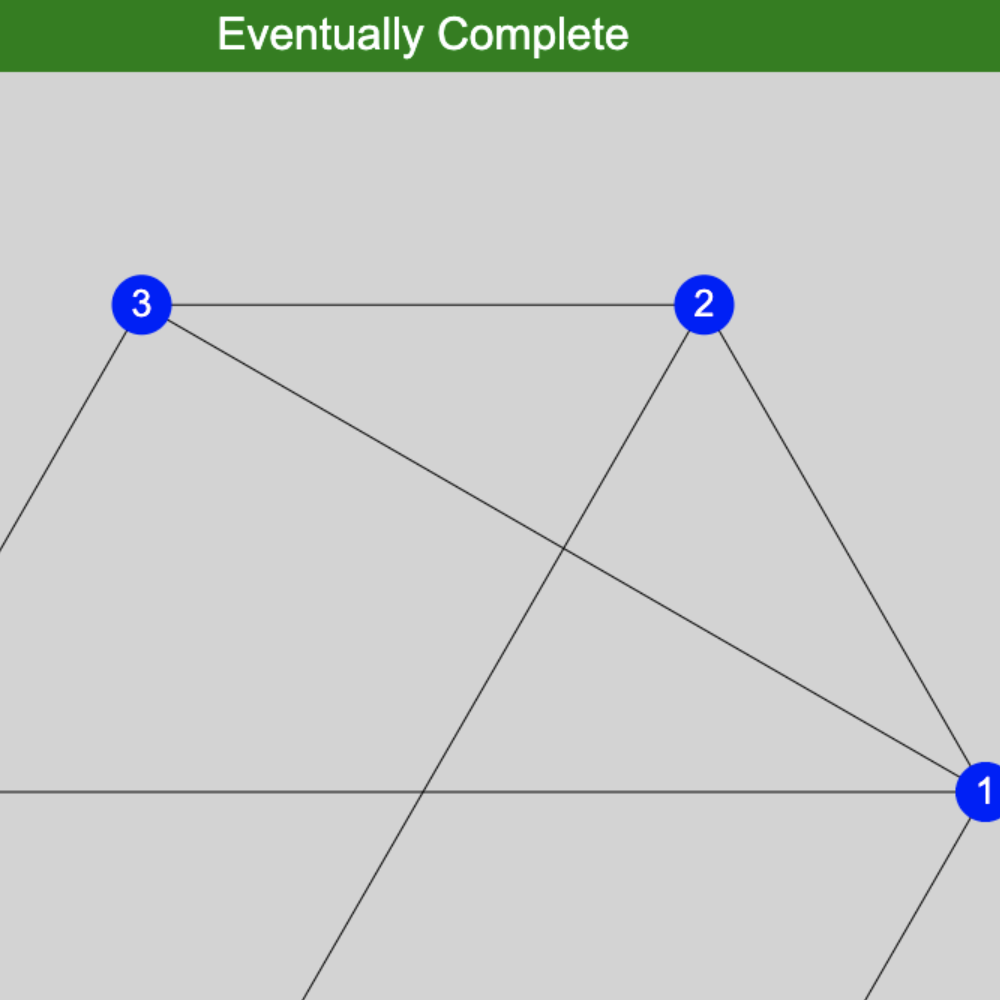
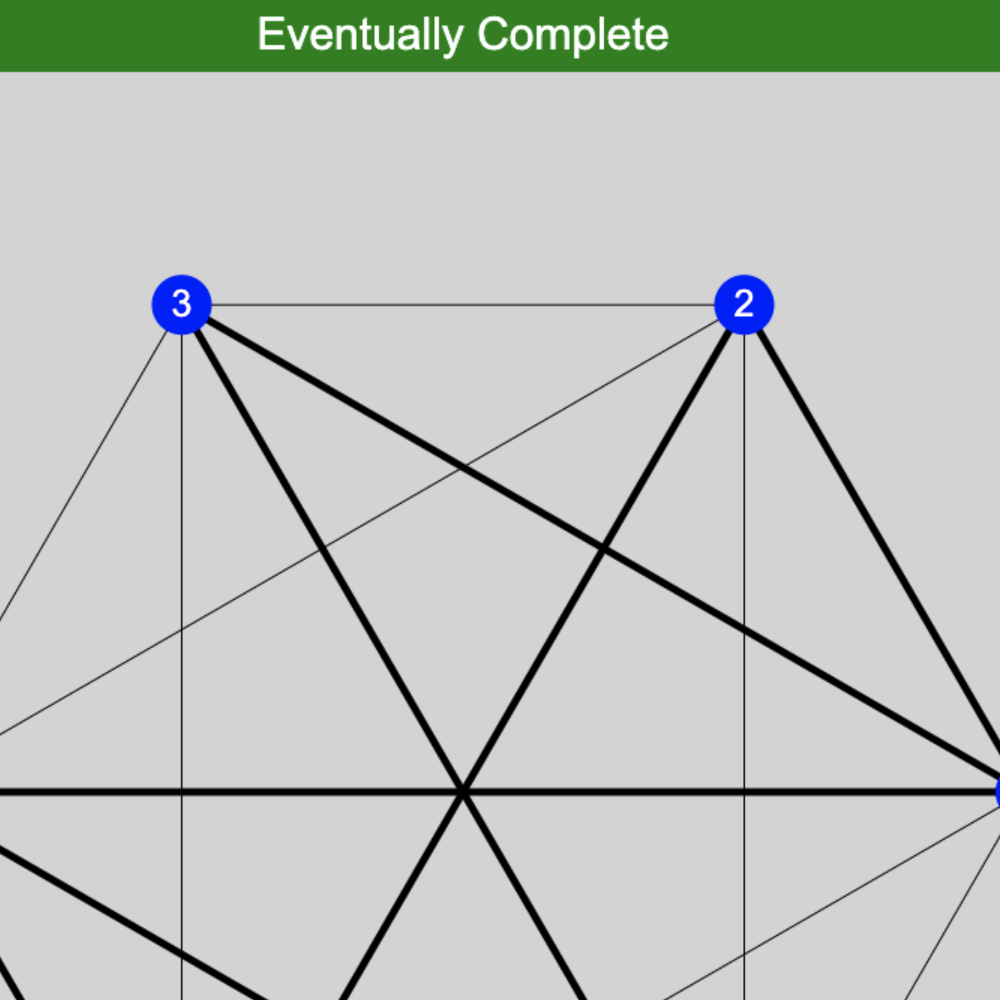
change ui

diff --git a/other/mathbook/engine.js b/other/mathbook/engine.js
@@ -116,6 +116,7 @@ function update_display() {
   }
 
   // hover line
+  ctx.lineWidth = 5;
   if (hover_loc != null && clicked_person != null) {
     ctx.beginPath();
     ctx.moveTo(...get_coords(clicked_person));
@@ -124,11 +125,22 @@ function update_display() {
   }
 
   // draw connections
+  ctx.lineWidth = 5;
   for (let conn of connections) {
     let rconn = JSON.parse(conn);
     ctx.beginPath();
     ctx.moveTo(...get_coords(rconn[0]));
     ctx.lineTo(...get_coords(rconn[1]));
+    ctx.stroke();
+  }
+
+  // draw possible connections
+  let poss_conns = get_possible_connections(connections);
+  ctx.lineWidth = 1;
+  for (let conn of poss_conns) {
+    ctx.beginPath();
+    ctx.moveTo(...get_coords(conn[0]));
+    ctx.lineTo(...get_coords(conn[1]));
     ctx.stroke();
   }
 
@@ -145,7 +157,7 @@ function update_display() {
   // eventually complete
   let t = 200;
   let text;
-  if (eventually_complete(connections)) {
+  if (poss_conns.length == choose(n, 2)) {
     ctx.fillStyle = "green";
     text = "Eventually Complete";
   } else {
@@ -198,8 +210,8 @@ function zeros(m) {
   return z;
 }
 
-function eventually_complete(conns) {
 
+function get_possible_connections(conns) {
   let conn_arr = zeros(n).map(x => zeros(n));
 
   for (let conn of conns) {
@@ -225,6 +237,22 @@ function eventually_complete(conns) {
       clean_trials++;
     }
   }
-  return conn_arr.map(x => x.reduce((a, b) => a + b, 0)).reduce((a, b) => a + b, 0) == 2 * choose(n, 2);
 
+  let ret = [];
+  for (let a = 0; a < n; a++) {
+    for (let b = 0; b < a; b++) {
+      if (conn_arr[b][a] == 1) {
+        ret.push([a, b]);
+      }
+    }
+  }
+
+  return ret;
 }
+
+
+// function eventually_complete(conns) {
+//
+//   return conn_arr.map(x => x.reduce((a, b) => a + b, 0)).reduce((a, b) => a + b, 0) == 2 * choose(n, 2);
+//
+// }
